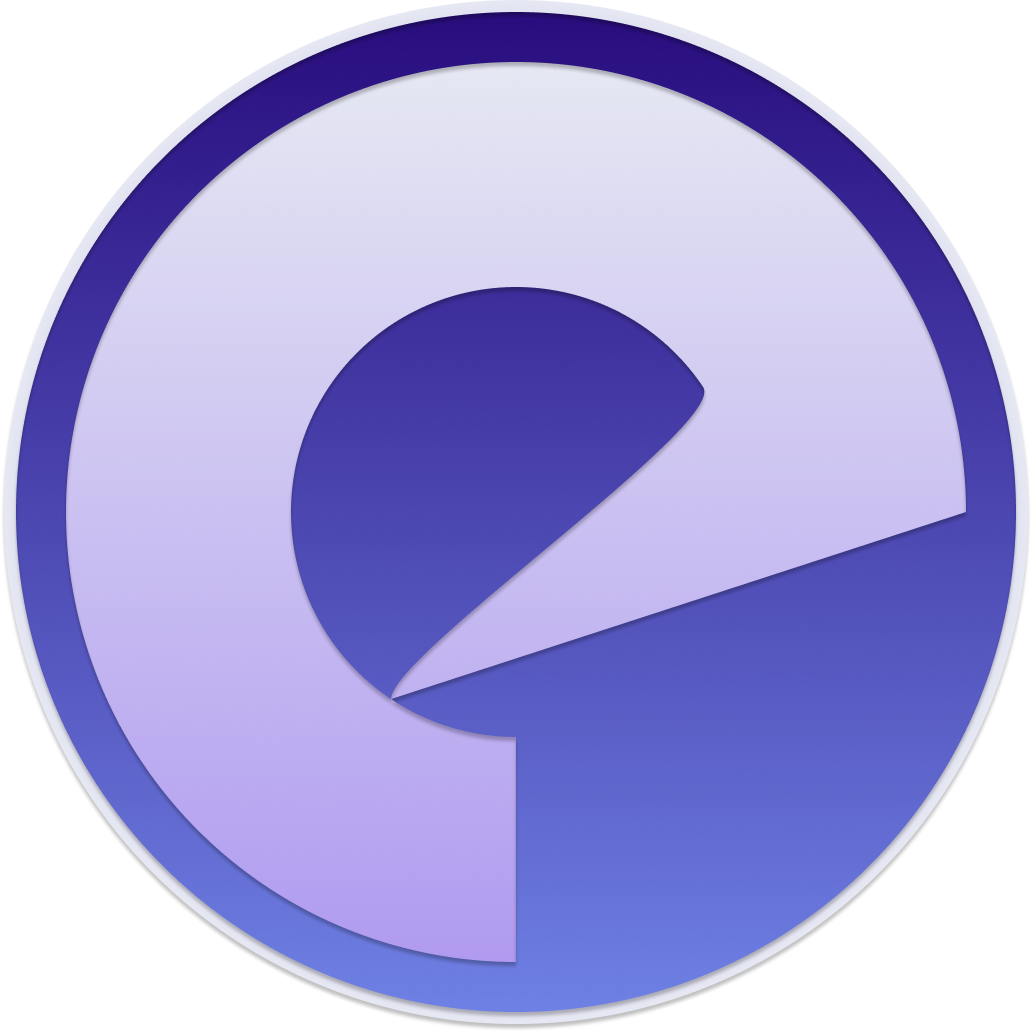
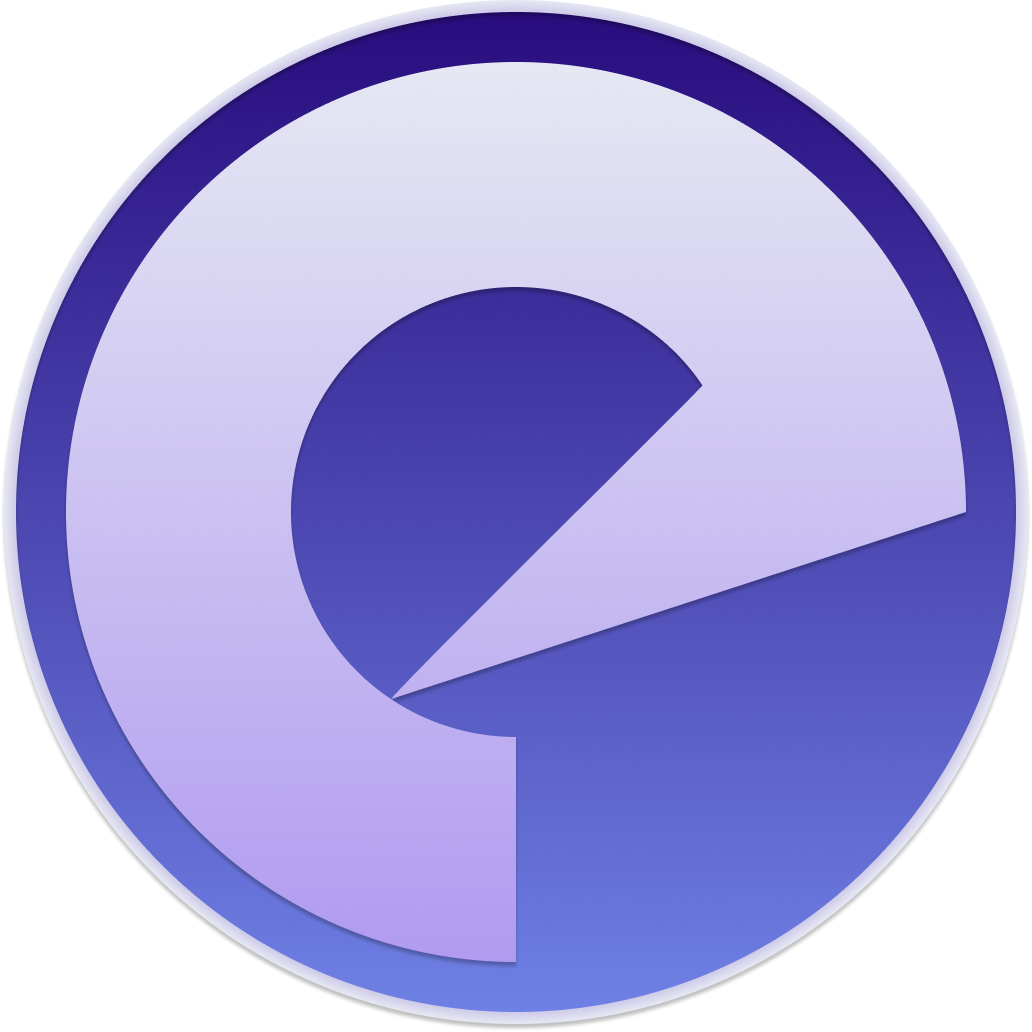
微调图标

diff --git a/README.md b/README.md
@@ -1,3 +1,5 @@
+<img src="https://raw.githubusercontent.com/EsprinProject/Logos/main/Nemo.png" width="88" height="88" alt="Esprin Nemo">
+
 # Esprin Nemo
 
 > Note, Nothing.
@@ -635,7 +637,7 @@ API Key **不随数据目录保存**，也不写入 `data/config.json`。
 ```text
 ├── package.json            # "main" 指向 src/main/main.js
 ├── assets/
-│   └── icon.png            # 应用图标（窗口 + 构建资源）
+│   └── icon.png            # 应用图标（窗口 + 构建资源，取自 EsprinProject/Logos 的 Main.png）
 ├── src/
 │   ├── main/               # 主进程
 │   │   ├── main.js         # 窗口、菜单、数据目录解析与迁移、IPC

diff --git a/.github/releases.md b/.github/releases.md
@@ -1,1 +1,1 @@
-- 新增一个有点丑的魔幻主题
+- 微调图标
